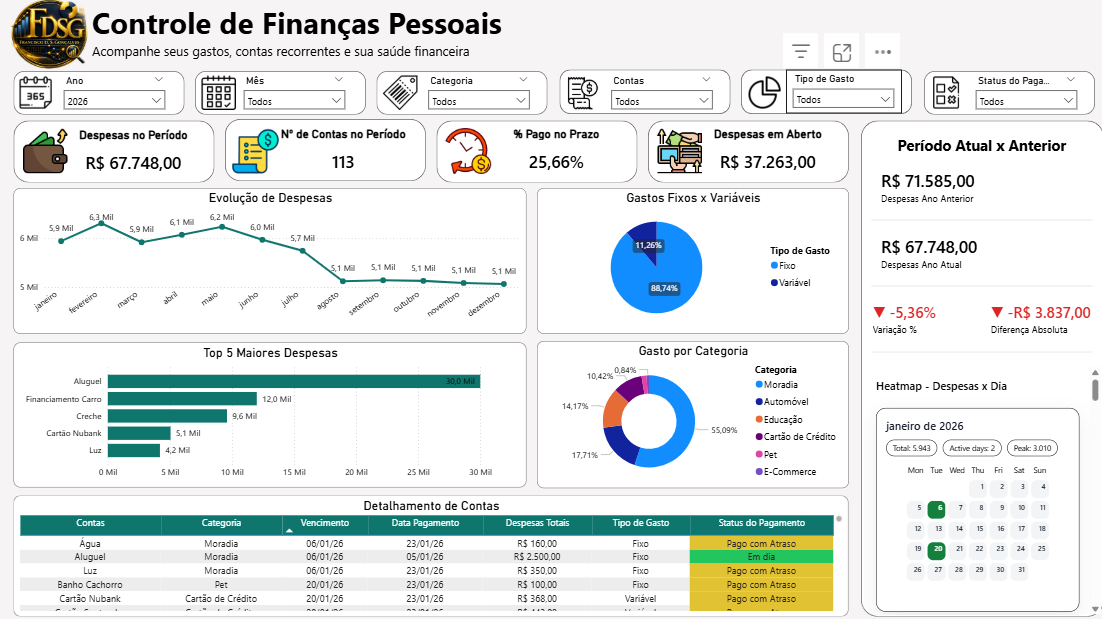
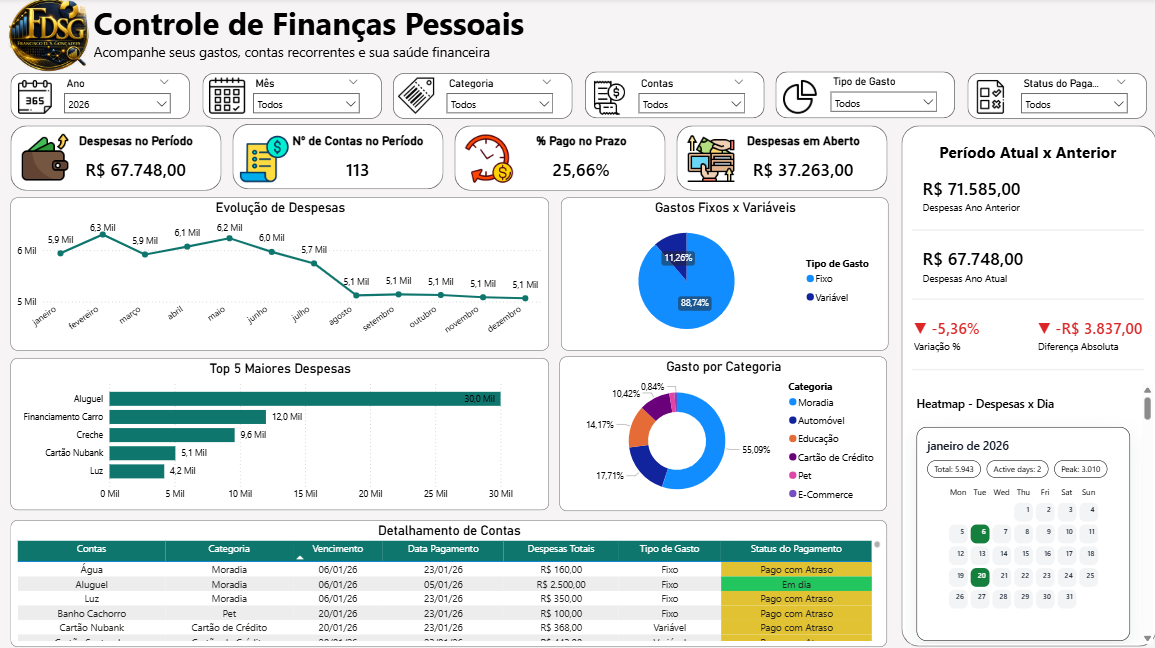
Alterações Projeto 2

diff --git a/style.css b/style.css
@@ -684,47 +684,47 @@ nav ul{
 }
 
 .objetivos-projeto {
-    background: #111;
+    background-color: #111111;
     border-radius: 24px;
-    padding: 40px 48px;
-    margin-top: 32px;
-    margin-bottom: 32px;
-}
-
-.objetivos-projeto h4 {
-    font-size: 42px;
-    font-weight: 700;
-    color: #f4c400;
-    margin-bottom: 28px;
-}
-
-.objetivos-projeto ul {
-    padding-left: 28px;
-}
-
-.objetivos-projeto li {
-    font-size: 32px;
-    line-height: 1.8;
-    color: white;
-    margin-bottom: 16px;
-}
-
-.preview-dashboard {
+    padding: 48px;
     margin-top: 40px;
     margin-bottom: 40px;
 }
 
-.preview-dashboard img {
-    width: 100%;
-    max-width: 1000px;
-    border-radius: 12px;
-    box-shadow: 0 8px 24px rgba(0,0,0,0.15);
+.objetivos-projeto h4 {
+    font-size: 52px;
+    font-weight: 700;
+    color: #f4c400;
+    margin-bottom: 30px;
+}
+
+.objetivos-projeto ul {
+    padding-left: 30px;
+    margin: 0;
+}
+
+.objetivos-projeto li {
+    color: white;
+    font-size: 28px;
+    line-height: 1.9;
+    margin-bottom: 16px;
 }
 
 .dashboard-preview-title {
-    font-size: 36px;
+    font-size: 52px;
     font-weight: 700;
     color: #f4c400;
-    margin-top: 36px;
+    margin-top: 48px;
     margin-bottom: 24px;
+}
+
+.preview-dashboard {
+    margin-top: 24px;
+    margin-bottom: 48px;
+}
+
+.preview-dashboard img {
+    width: 100%;
+    border-radius: 24px;
+    display: block;
 }

diff --git a/index.html b/index.html
@@ -252,7 +252,7 @@ href="https://cdnjs.cloudflare.com/ajax/libs/font-awesome/6.5.1/css/all.min.css"
       </h3>
 
       <p>
-        Projeto desenvolvido em Power BI com foco em controle financeiro pessoal, 
+        Projeto desenvolvido em Power BI com foco em controle financeiro pessoal.
         O dashboard conta com filtros dinâmicos por ano, mês, categoria, conta, tipo de gasto e status de pagamento, além de comparativo inteligente entre período atual e anterior.
 
       </p>
